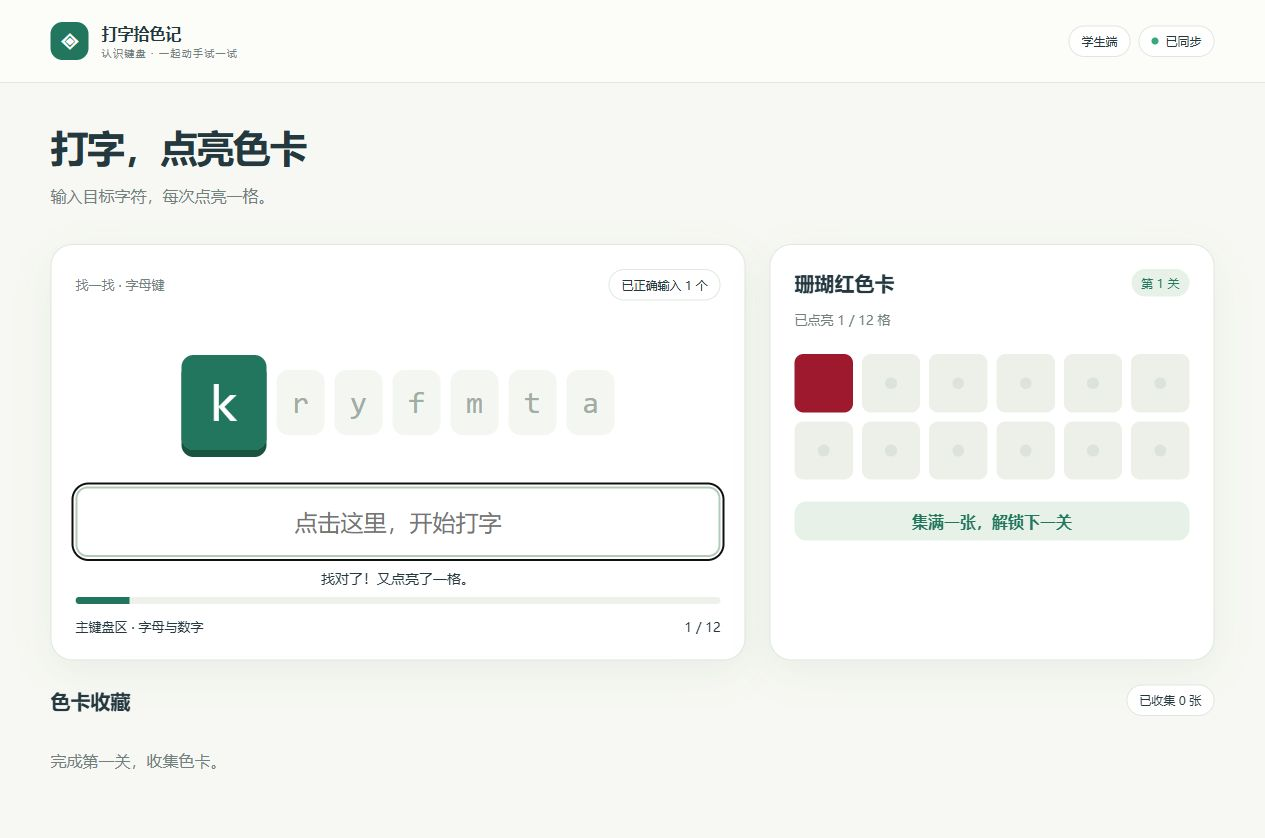
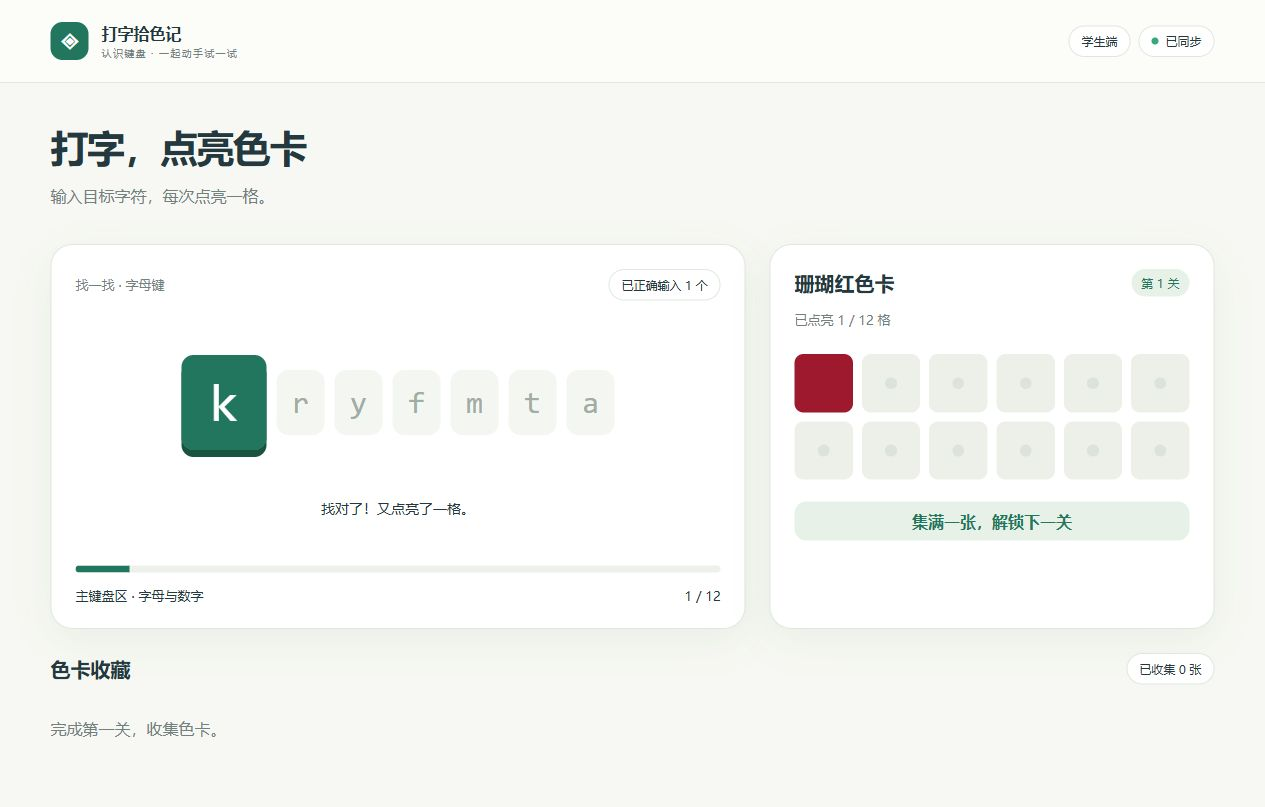
docs: refresh direct-typing preview and generated entry styles

diff --git a/web/index.html b/web/index.html
@@ -1,4 +1,4 @@
 <!doctype html>
 <html lang="zh-CN"><head><meta charset="UTF-8"><meta name="viewport" content="width=device-width,initial-scale=1"><meta name="color-scheme" content="light"><title>认识键盘 · 课堂互动</title><style>:root{color-scheme:light;--ink:#243840;--muted:#71817d;--paper:#f7f8f3;--line:#dfe7df;--green:#23765e;--mint:#e7f1e8;--white:#fff;--shadow:0 12px 40px #294c3410;font-family:'Microsoft YaHei','PingFang SC',system-ui,sans-serif;color:var(--ink);background:var(--paper)}
-*{box-sizing:border-box}body{margin:0}button,input,select{font:inherit}button,a,input,select{-webkit-tap-highlight-color:transparent}button{cursor:pointer}a{color:inherit}button:focus-visible,a:focus-visible{outline:3px solid #2d9179;outline-offset:4px}button:disabled{cursor:wait;opacity:.55}button,input,select{border-radius:12px}input,select{border:1px solid var(--line);padding:10px 12px;background:white;color:var(--ink)}input{min-width:0}button{border:1px solid var(--line);background:white;color:var(--ink);padding:11px 17px;font-weight:600}button:hover{border-color:#98b7a3}.primary{background:var(--green);color:white;border-color:var(--green)}.quiet{background:transparent}.danger{color:#ac4f45}header{display:flex;align-items:center;justify-content:space-between;gap:20px;padding:22px 4vw;border-bottom:1px solid var(--line);background:#fcfdf9}.brand{display:flex;gap:13px;align-items:center;font-weight:800}.brandmark{display:grid;place-items:center;width:38px;height:38px;background:var(--green);color:white;border-radius:12px;font-size:24px}.brand small{display:block;font-weight:400;letter-spacing:.13em;color:var(--muted);font-size:10px;margin-top:3px}.badge,.status{display:inline-flex;align-items:center;gap:7px;border:1px solid var(--line);padding:7px 12px;border-radius:99px;font-size:12px;background:#fff}.status:before{content:'';width:7px;height:7px;background:#a9b5ac;border-radius:50%}.status.ok:before{background:#36a97c}.status.error:before{background:#db8263}.status.error{color:#a14b30}main{max-width:1500px;margin:auto;padding:30px 4vw 45px}.eyebrow{color:var(--green);font-size:12px;font-weight:700;letter-spacing:.16em}.intro{display:flex;justify-content:space-between;gap:20px;align-items:end;margin-bottom:26px}h1{font-size:clamp(28px,3vw,43px);letter-spacing:-.04em;margin:9px 0 10px;line-height:1.3}h2{font-size:20px;margin:0 0 12px}h3{font-size:16px;margin:0 0 8px}p{line-height:1.8;color:var(--muted);margin:8px 0}.panel{background:white;border:1px solid var(--line);border-radius:22px;padding:24px;box-shadow:var(--shadow)}.palette{display:flex;gap:10px;flex-wrap:wrap;margin-bottom:22px}.color-choice{display:flex;align-items:center;gap:8px;padding:13px 17px;border:2px solid transparent;background:#fff;box-shadow:0 0 0 1px var(--line)}.color-choice.active{border-color:var(--ink);box-shadow:0 4px 10px #253c2310}.dot{display:inline-block;flex-shrink:0;width:17px;height:17px;border-radius:6px;background:var(--c,#e8ede9);vertical-align:middle}.keyboard-scroll{overflow-x:auto;padding:12px 2px 5px}.keyboard{position:relative;aspect-ratio:23.3/6.85;min-width:770px;user-select:none;touch-action:pan-y}.key{position:absolute;padding:0;border:1px solid #d6ded7;border-bottom:3px solid #c9d3cb;border-radius:7px;background:#f0f3ef;color:#273c40;font-size:clamp(9px,1vw,14px);font-weight:600;box-shadow:0 2px 2px #27472b06;transition:filter .12s,transform .12s}.key:hover{filter:brightness(.94);transform:translateY(-2px)}.key.indicator{border-radius:14px;font-size:11px;border-bottom-width:1px}.key.indicator:before{content:'';display:inline-block;width:7px;height:7px;background:#566b5b;border-radius:50%;margin-right:5px}.keyboard-note{display:flex;justify-content:space-between;gap:16px;font-size:12px;color:var(--muted);margin:12px 0 0}.toolbar{display:flex;align-items:center;gap:10px;flex-wrap:wrap;margin-top:22px}.toolbar .spacer{flex:1}.progress-track{height:7px;background:#edf1ea;border-radius:99px;overflow:hidden}.progress-track>span{display:block;background:var(--green);height:100%;transition:width .25s}.footer-note{margin:20px 0;font-size:13px;color:var(--muted)}.notice{padding:12px 16px;background:var(--mint);border-radius:12px;color:var(--green);font-size:14px;margin:16px 0}.toast{position:fixed;bottom:28px;left:50%;transform:translateX(-50%);padding:13px 23px;background:var(--ink);color:white;border-radius:99px;box-shadow:var(--shadow);z-index:20;max-width:90vw;text-align:center}.hidden{display:none!important}.teacher-bar{display:flex;gap:10px;flex-wrap:wrap;align-items:center;margin-bottom:24px}.teacher-bar label{font-size:13px;color:var(--muted)}.teacher-bar input{max-width:205px}.metrics{display:grid;grid-template-columns:repeat(4,1fr);gap:16px;margin-bottom:23px}.metric{border:1px solid var(--line);background:white;border-radius:18px;padding:19px 22px}.metric .label{font-size:13px;color:var(--muted)}.metric strong{display:block;font-size:34px;margin-top:6px;font-weight:700;font-variant-numeric:tabular-nums}.metric small{font-size:13px;font-weight:400;margin-left:5px}.section-head{display:flex;justify-content:space-between;gap:14px;align-items:center;margin-bottom:12px}.section-head h2{margin:0}.legend{display:flex;gap:15px;flex-wrap:wrap;font-size:12px;margin:14px 0}.legend span{display:flex;gap:6px;align-items:center}.tooltip{position:fixed;z-index:40;background:#243840;color:white;border-radius:15px;padding:16px 18px;width:265px;box-shadow:0 15px 40px #0002;pointer-events:none}.tooltip strong{display:block;margin-bottom:8px}.tooltip .tiprow{display:flex;align-items:center;justify-content:space-between;gap:12px;font-size:12px;padding:5px 0}.tooltip .tiprow span:first-child{display:flex;align-items:center;gap:7px}.tooltip .tiptotal{font-size:11px;color:#c8d6ce;margin:7px 0 0}.below{display:grid;grid-template-columns:1fr 1fr;gap:20px;margin-top:22px}.empty{padding:35px 15px;text-align:center;color:var(--muted)}.snapshot-row{display:flex;justify-content:space-between;border-bottom:1px solid var(--line);padding:12px 0;font-size:14px;gap:10px}.stage-buttons{display:flex;gap:8px;flex-wrap:wrap}.stage-buttons button.active{background:var(--green);color:white;border-color:var(--green)}.typing-layout{display:grid;grid-template-columns:minmax(0,1.25fr) minmax(310px,.8fr);gap:24px}.typing-task{display:flex;flex-direction:column;min-height:385px}.lesson-label{font-size:13px;color:var(--muted)}.target-strip{display:flex;align-items:center;justify-content:center;gap:10px;min-height:132px;margin:24px 0 18px}.target-char{display:grid;place-items:center;font-family:ui-monospace,Consolas,monospace;font-size:31px;color:#a1ada4;width:48px;height:65px;border-radius:12px;background:#f4f6f1}.target-char.current{font-size:53px;width:85px;height:95px;background:var(--green);color:white;box-shadow:0 7px 0 #18543f}.typing-input{width:100%;border:2px solid #b2cbb8;padding:18px;font-size:23px;outline-offset:4px;text-align:center;caret-color:var(--green)}.typing-input.error{border-color:#e68178;background:#fff4f2;animation:shake .18s 2}.input-hint{min-height:28px;text-align:center;font-size:14px;margin-top:12px}.typing-task .progress-track{margin-top:auto}.typing-bottom{display:flex;justify-content:space-between;font-size:13px;margin:14px 0 0}.swatch-grid{display:grid;grid-template-columns:repeat(6,1fr);gap:9px;margin:22px 0}.swatch{aspect-ratio:1;border-radius:9px;background:#edf0e9;position:relative;transition:background .3s,transform .3s}.swatch.lit{background:var(--paint);box-shadow:inset 0 0 0 1px #00000008}.swatch.just-lit{animation:pop .3s ease-out}.swatch:not(.lit):before{content:'';position:absolute;inset:40%;border-radius:50%;background:#dce3d8}.swatch-count{font-size:13px;color:var(--muted)}.level-tag{font-size:12px;border-radius:99px;padding:6px 10px;background:var(--mint);color:var(--green)}.collection{margin-top:24px}.collection-list{display:flex;gap:12px;overflow-x:auto;padding:10px 0}.mini-card{width:105px;min-width:105px;padding:10px;border:1px solid var(--line);border-radius:13px;background:white}.mini-grid{display:grid;grid-template-columns:repeat(4,1fr);gap:3px}.mini-grid span{height:14px;border-radius:3px}.mini-card small{display:block;margin-top:8px;color:var(--muted);font-size:11px}.celebration{color:var(--green);font-weight:700;text-align:center;padding:9px;background:var(--mint);border-radius:12px;min-height:38px}.percentile{display:grid;grid-template-columns:repeat(4,1fr);gap:12px}.percentile-card{padding:20px;border:1px solid var(--line);border-radius:15px}.percentile-card strong{display:block;font-size:28px;margin-top:10px}.percentile-card span{color:var(--muted);font-size:13px}.hist-row{display:grid;grid-template-columns:75px 1fr 65px;align-items:center;gap:15px;margin:17px 0;font-size:13px}.hist-bar{height:22px;background:#eef2eb;border-radius:6px;overflow:hidden}.hist-bar span{height:100%;display:block;background:#7fb399;border-radius:6px}.home-grid{display:grid;grid-template-columns:1fr 1fr;gap:24px;margin-top:36px}.home-card{padding:35px}.home-art{height:150px;display:flex;align-items:center;justify-content:center;gap:8px;margin:5px 0 25px;background:#eff3e9;border-radius:15px}.home-art i{width:36px;height:65px;border-radius:8px;transform:rotate(-7deg);background:var(--c)}.home-art i:nth-child(2n){transform:rotate(8deg) translateY(12px)}.home-card a{display:inline-block;text-decoration:none;margin-top:20px;margin-right:10px}.tips{font-size:13px;color:var(--muted)}.new-room{background:#fff8e7;padding:14px;border-radius:12px;margin-bottom:18px;font-size:13px;line-height:1.8}.chip{display:inline-block;padding:5px 9px;border-radius:8px;background:#f0f4ed;margin:4px;font-size:12px}.student-list{max-height:190px;overflow-y:auto}.teacher-heading{font-size:32px}.offline-banner{background:#fff4df;color:#916526;padding:12px 16px;border-radius:12px;margin-bottom:18px;font-size:13px}@keyframes pop{50%{transform:scale(1.16)}}@keyframes shake{50%{transform:translateX(4px)}}@media(min-width:1500px){.key{font-size:14px}}@media(max-width:900px){.typing-layout,.below,.home-grid{grid-template-columns:1fr}.metrics,.percentile{grid-template-columns:repeat(2,1fr)}.intro{align-items:start;flex-direction:column}.panel{padding:18px}main{padding:24px 18px}.typing-task{min-height:340px}.color-choice{padding:10px;font-size:13px}.target-char{width:33px;font-size:24px}.target-strip{gap:7px}header{padding:17px 18px}}@media(prefers-reduced-motion:reduce){*{animation:none!important;transition:none!important}}
+*{box-sizing:border-box}body{margin:0}button,input,select{font:inherit}button,a,input,select{-webkit-tap-highlight-color:transparent}button{cursor:pointer}a{color:inherit}button:focus-visible,a:focus-visible{outline:3px solid #2d9179;outline-offset:4px}button:disabled{cursor:wait;opacity:.55}button,input,select{border-radius:12px}input,select{border:1px solid var(--line);padding:10px 12px;background:white;color:var(--ink)}input{min-width:0}button{border:1px solid var(--line);background:white;color:var(--ink);padding:11px 17px;font-weight:600}button:hover{border-color:#98b7a3}.primary{background:var(--green);color:white;border-color:var(--green)}.quiet{background:transparent}.danger{color:#ac4f45}header{display:flex;align-items:center;justify-content:space-between;gap:20px;padding:22px 4vw;border-bottom:1px solid var(--line);background:#fcfdf9}.brand{display:flex;gap:13px;align-items:center;font-weight:800}.brandmark{display:grid;place-items:center;width:38px;height:38px;background:var(--green);color:white;border-radius:12px;font-size:24px}.brand small{display:block;font-weight:400;letter-spacing:.13em;color:var(--muted);font-size:10px;margin-top:3px}.badge,.status{display:inline-flex;align-items:center;gap:7px;border:1px solid var(--line);padding:7px 12px;border-radius:99px;font-size:12px;background:#fff}.status:before{content:'';width:7px;height:7px;background:#a9b5ac;border-radius:50%}.status.ok:before{background:#36a97c}.status.error:before{background:#db8263}.status.error{color:#a14b30}main{max-width:1500px;margin:auto;padding:30px 4vw 45px}.eyebrow{color:var(--green);font-size:12px;font-weight:700;letter-spacing:.16em}.intro{display:flex;justify-content:space-between;gap:20px;align-items:end;margin-bottom:26px}h1{font-size:clamp(28px,3vw,43px);letter-spacing:-.04em;margin:9px 0 10px;line-height:1.3}h2{font-size:20px;margin:0 0 12px}h3{font-size:16px;margin:0 0 8px}p{line-height:1.8;color:var(--muted);margin:8px 0}.panel{background:white;border:1px solid var(--line);border-radius:22px;padding:24px;box-shadow:var(--shadow)}.palette{display:flex;gap:10px;flex-wrap:wrap;margin-bottom:22px}.color-choice{display:flex;align-items:center;gap:8px;padding:13px 17px;border:2px solid transparent;background:#fff;box-shadow:0 0 0 1px var(--line)}.color-choice.active{border-color:var(--ink);box-shadow:0 4px 10px #253c2310}.dot{display:inline-block;flex-shrink:0;width:17px;height:17px;border-radius:6px;background:var(--c,#e8ede9);vertical-align:middle}.keyboard-scroll{overflow-x:auto;padding:12px 2px 5px}.keyboard{position:relative;aspect-ratio:23.3/6.85;min-width:770px;user-select:none;touch-action:pan-y}.key{position:absolute;padding:0;border:1px solid #d6ded7;border-bottom:3px solid #c9d3cb;border-radius:7px;background:#f0f3ef;color:#273c40;font-size:clamp(9px,1vw,14px);font-weight:600;box-shadow:0 2px 2px #27472b06;transition:filter .12s,transform .12s}.key:hover{filter:brightness(.94);transform:translateY(-2px)}.key.indicator{border-radius:14px;font-size:11px;border-bottom-width:1px}.key.indicator:before{content:'';display:inline-block;width:7px;height:7px;background:#566b5b;border-radius:50%;margin-right:5px}.keyboard-note{display:flex;justify-content:space-between;gap:16px;font-size:12px;color:var(--muted);margin:12px 0 0}.toolbar{display:flex;align-items:center;gap:10px;flex-wrap:wrap;margin-top:22px}.toolbar .spacer{flex:1}.progress-track{height:7px;background:#edf1ea;border-radius:99px;overflow:hidden}.progress-track>span{display:block;background:var(--green);height:100%;transition:width .25s}.footer-note{margin:20px 0;font-size:13px;color:var(--muted)}.notice{padding:12px 16px;background:var(--mint);border-radius:12px;color:var(--green);font-size:14px;margin:16px 0}.toast{position:fixed;bottom:28px;left:50%;transform:translateX(-50%);padding:13px 23px;background:var(--ink);color:white;border-radius:99px;box-shadow:var(--shadow);z-index:20;max-width:90vw;text-align:center}.hidden{display:none!important}.teacher-bar{display:flex;gap:10px;flex-wrap:wrap;align-items:center;margin-bottom:24px}.teacher-bar label{font-size:13px;color:var(--muted)}.teacher-bar input{max-width:205px}.metrics{display:grid;grid-template-columns:repeat(4,1fr);gap:16px;margin-bottom:23px}.metric{border:1px solid var(--line);background:white;border-radius:18px;padding:19px 22px}.metric .label{font-size:13px;color:var(--muted)}.metric strong{display:block;font-size:34px;margin-top:6px;font-weight:700;font-variant-numeric:tabular-nums}.metric small{font-size:13px;font-weight:400;margin-left:5px}.section-head{display:flex;justify-content:space-between;gap:14px;align-items:center;margin-bottom:12px}.section-head h2{margin:0}.legend{display:flex;gap:15px;flex-wrap:wrap;font-size:12px;margin:14px 0}.legend span{display:flex;gap:6px;align-items:center}.tooltip{position:fixed;z-index:40;background:#243840;color:white;border-radius:15px;padding:16px 18px;width:265px;box-shadow:0 15px 40px #0002;pointer-events:none}.tooltip strong{display:block;margin-bottom:8px}.tooltip .tiprow{display:flex;align-items:center;justify-content:space-between;gap:12px;font-size:12px;padding:5px 0}.tooltip .tiprow span:first-child{display:flex;align-items:center;gap:7px}.tooltip .tiptotal{font-size:11px;color:#c8d6ce;margin:7px 0 0}.below{display:grid;grid-template-columns:1fr 1fr;gap:20px;margin-top:22px}.empty{padding:35px 15px;text-align:center;color:var(--muted)}.snapshot-row{display:flex;justify-content:space-between;border-bottom:1px solid var(--line);padding:12px 0;font-size:14px;gap:10px}.stage-buttons{display:flex;gap:8px;flex-wrap:wrap}.stage-buttons button.active{background:var(--green);color:white;border-color:var(--green)}.typing-layout{display:grid;grid-template-columns:minmax(0,1.25fr) minmax(310px,.8fr);gap:24px}.typing-task{display:flex;flex-direction:column;min-height:385px}.lesson-label{font-size:13px;color:var(--muted)}.target-strip{display:flex;align-items:center;justify-content:center;gap:10px;min-height:132px;margin:24px 0 18px}.target-char{display:grid;place-items:center;font-family:ui-monospace,Consolas,monospace;font-size:31px;color:#a1ada4;width:48px;height:65px;border-radius:12px;background:#f4f6f1}.target-char.current{font-size:53px;width:85px;height:95px;background:var(--green);color:white;box-shadow:0 7px 0 #18543f}.target-strip.error .target-char.current{background:#b85249;box-shadow:0 7px 0 #843d35;animation:shake .18s 2}.input-hint{min-height:28px;text-align:center;font-size:14px;margin-top:12px}.typing-task .progress-track{margin-top:auto}.typing-bottom{display:flex;justify-content:space-between;font-size:13px;margin:14px 0 0}.swatch-grid{display:grid;grid-template-columns:repeat(6,1fr);gap:9px;margin:22px 0}.swatch{aspect-ratio:1;border-radius:9px;background:#edf0e9;position:relative;transition:background .3s,transform .3s}.swatch.lit{background:var(--paint);box-shadow:inset 0 0 0 1px #00000008}.swatch.just-lit{animation:pop .3s ease-out}.swatch:not(.lit):before{content:'';position:absolute;inset:40%;border-radius:50%;background:#dce3d8}.swatch-count{font-size:13px;color:var(--muted)}.level-tag{font-size:12px;border-radius:99px;padding:6px 10px;background:var(--mint);color:var(--green)}.collection{margin-top:24px}.collection-list{display:flex;gap:12px;overflow-x:auto;padding:10px 0}.mini-card{width:105px;min-width:105px;padding:10px;border:1px solid var(--line);border-radius:13px;background:white}.mini-grid{display:grid;grid-template-columns:repeat(4,1fr);gap:3px}.mini-grid span{height:14px;border-radius:3px}.mini-card small{display:block;margin-top:8px;color:var(--muted);font-size:11px}.celebration{color:var(--green);font-weight:700;text-align:center;padding:9px;background:var(--mint);border-radius:12px;min-height:38px}.percentile{display:grid;grid-template-columns:repeat(4,1fr);gap:12px}.percentile-card{padding:20px;border:1px solid var(--line);border-radius:15px}.percentile-card strong{display:block;font-size:28px;margin-top:10px}.percentile-card span{color:var(--muted);font-size:13px}.hist-row{display:grid;grid-template-columns:75px 1fr 65px;align-items:center;gap:15px;margin:17px 0;font-size:13px}.hist-bar{height:22px;background:#eef2eb;border-radius:6px;overflow:hidden}.hist-bar span{height:100%;display:block;background:#7fb399;border-radius:6px}.home-grid{display:grid;grid-template-columns:1fr 1fr;gap:24px;margin-top:36px}.home-card{padding:35px}.home-art{height:150px;display:flex;align-items:center;justify-content:center;gap:8px;margin:5px 0 25px;background:#eff3e9;border-radius:15px}.home-art i{width:36px;height:65px;border-radius:8px;transform:rotate(-7deg);background:var(--c)}.home-art i:nth-child(2n){transform:rotate(8deg) translateY(12px)}.home-card a{display:inline-block;text-decoration:none;margin-top:20px;margin-right:10px}.tips{font-size:13px;color:var(--muted)}.new-room{background:#fff8e7;padding:14px;border-radius:12px;margin-bottom:18px;font-size:13px;line-height:1.8}.chip{display:inline-block;padding:5px 9px;border-radius:8px;background:#f0f4ed;margin:4px;font-size:12px}.student-list{max-height:190px;overflow-y:auto}.teacher-heading{font-size:32px}.offline-banner{background:#fff4df;color:#916526;padding:12px 16px;border-radius:12px;margin-bottom:18px;font-size:13px}@keyframes pop{50%{transform:scale(1.16)}}@keyframes shake{50%{transform:translateX(4px)}}@media(min-width:1500px){.key{font-size:14px}}@media(max-width:900px){.typing-layout,.below,.home-grid{grid-template-columns:1fr}.metrics,.percentile{grid-template-columns:repeat(2,1fr)}.intro{align-items:start;flex-direction:column}.panel{padding:18px}main{padding:24px 18px}.typing-task{min-height:340px}.color-choice{padding:10px;font-size:13px}.target-char{width:33px;font-size:24px}.target-strip{gap:7px}header{padding:17px 18px}}@media(prefers-reduced-motion:reduce){*{animation:none!important;transition:none!important}}
 </style></head><body><header><div class="brand"><span class="brandmark">▦</span><span>认识键盘<small>三年级信息科技 · 课堂互动</small></span></div><span class="badge">第一版 · 动手试一试</span></header><main><div class="eyebrow">观察 · 尝试 · 发现</div><h1>从认识键盘，<br>到点亮每一种颜色。</h1><p>两项独立活动，让每个孩子都有自己的尝试节奏。无需填写姓名或座位号。</p><div class="home-grid"><section class="panel home-card"><div class="home-art"><i style="--c:#ed6874"></i><i style="--c:#f1bf52"></i><i style="--c:#54b997"></i><i style="--c:#688ee6"></i><i style="--c:#a287cf"></i></div><div class="eyebrow">任务 01</div><h2>键盘调色室</h2><p>选一支颜色，给键盘分区。教师看见全班的颜色。</p><a class="primary" style="padding:12px 18px;border-radius:12px" href="coloring/student.html">进入学生端 →</a><a href="coloring/teacher.html">教师看板 ↗</a><p class="tips"><a href="coloring/teacher.html?demo=1">本机示例体验</a></p></section><section class="panel home-card"><div class="home-art"><i style="--c:#ed6874"></i><i style="--c:#f1bf52"></i><i style="--c:#54b997"></i><i style="--c:#688ee6"></i><i style="--c:#a287cf"></i></div><div class="eyebrow">任务 02</div><h2>打字拾色记</h2><p>每正确输入一次，点亮一格，收集一片新的色彩。</p><a class="primary" style="padding:12px 18px;border-radius:12px" href="typing/student.html">进入学生端 →</a><a href="typing/teacher.html">教师看板 ↗</a><p class="tips"><a href="typing/teacher.html?demo=1">本机示例体验</a></p></section></div><p class="footer-note">教师先打开看板，新建课堂，再复制该课堂的学生链接。两项活动分别使用独立的 QForm 任务。</p></main></body></html>
